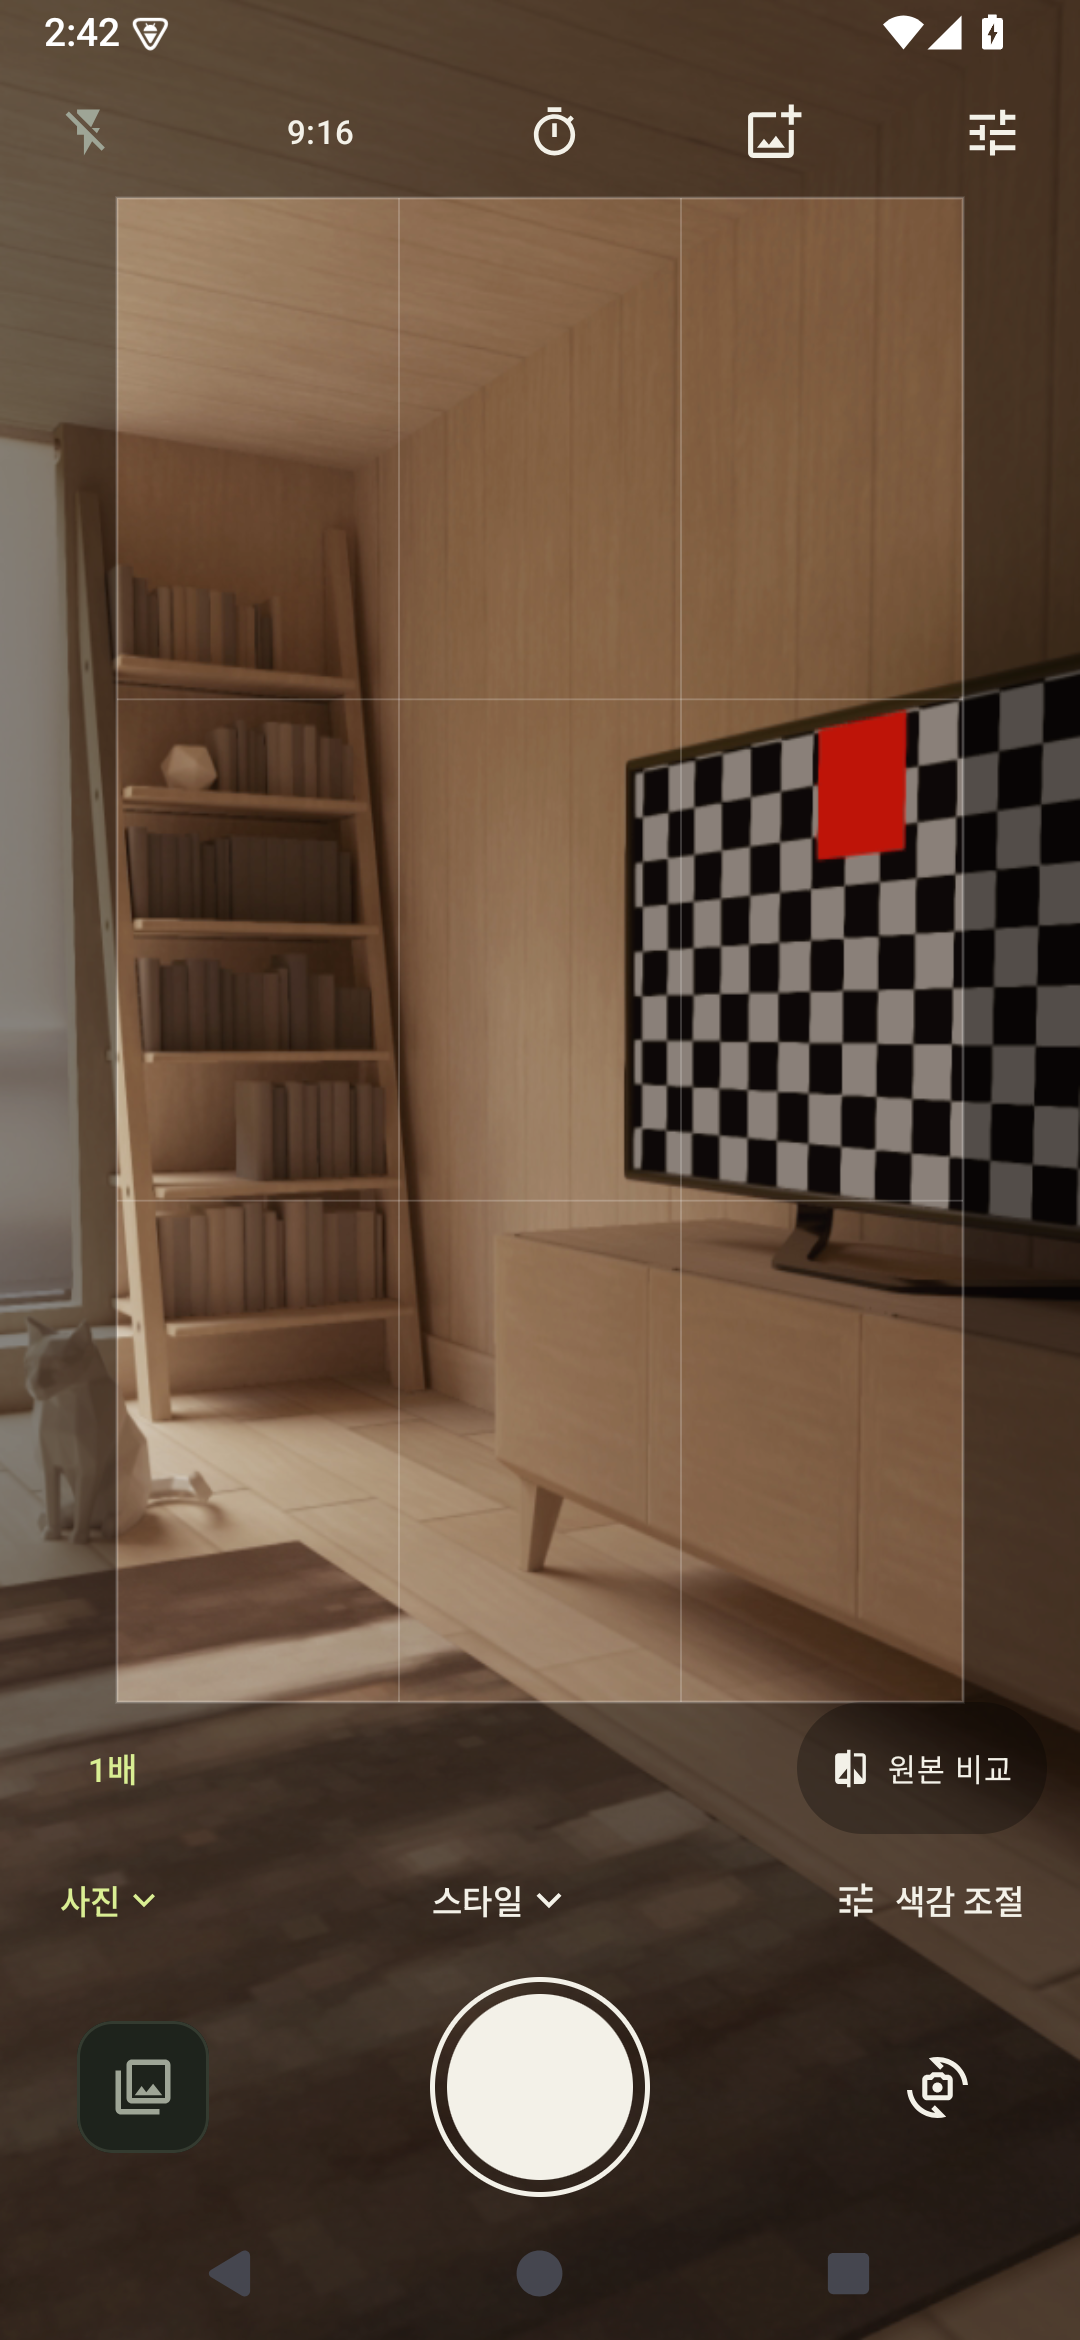
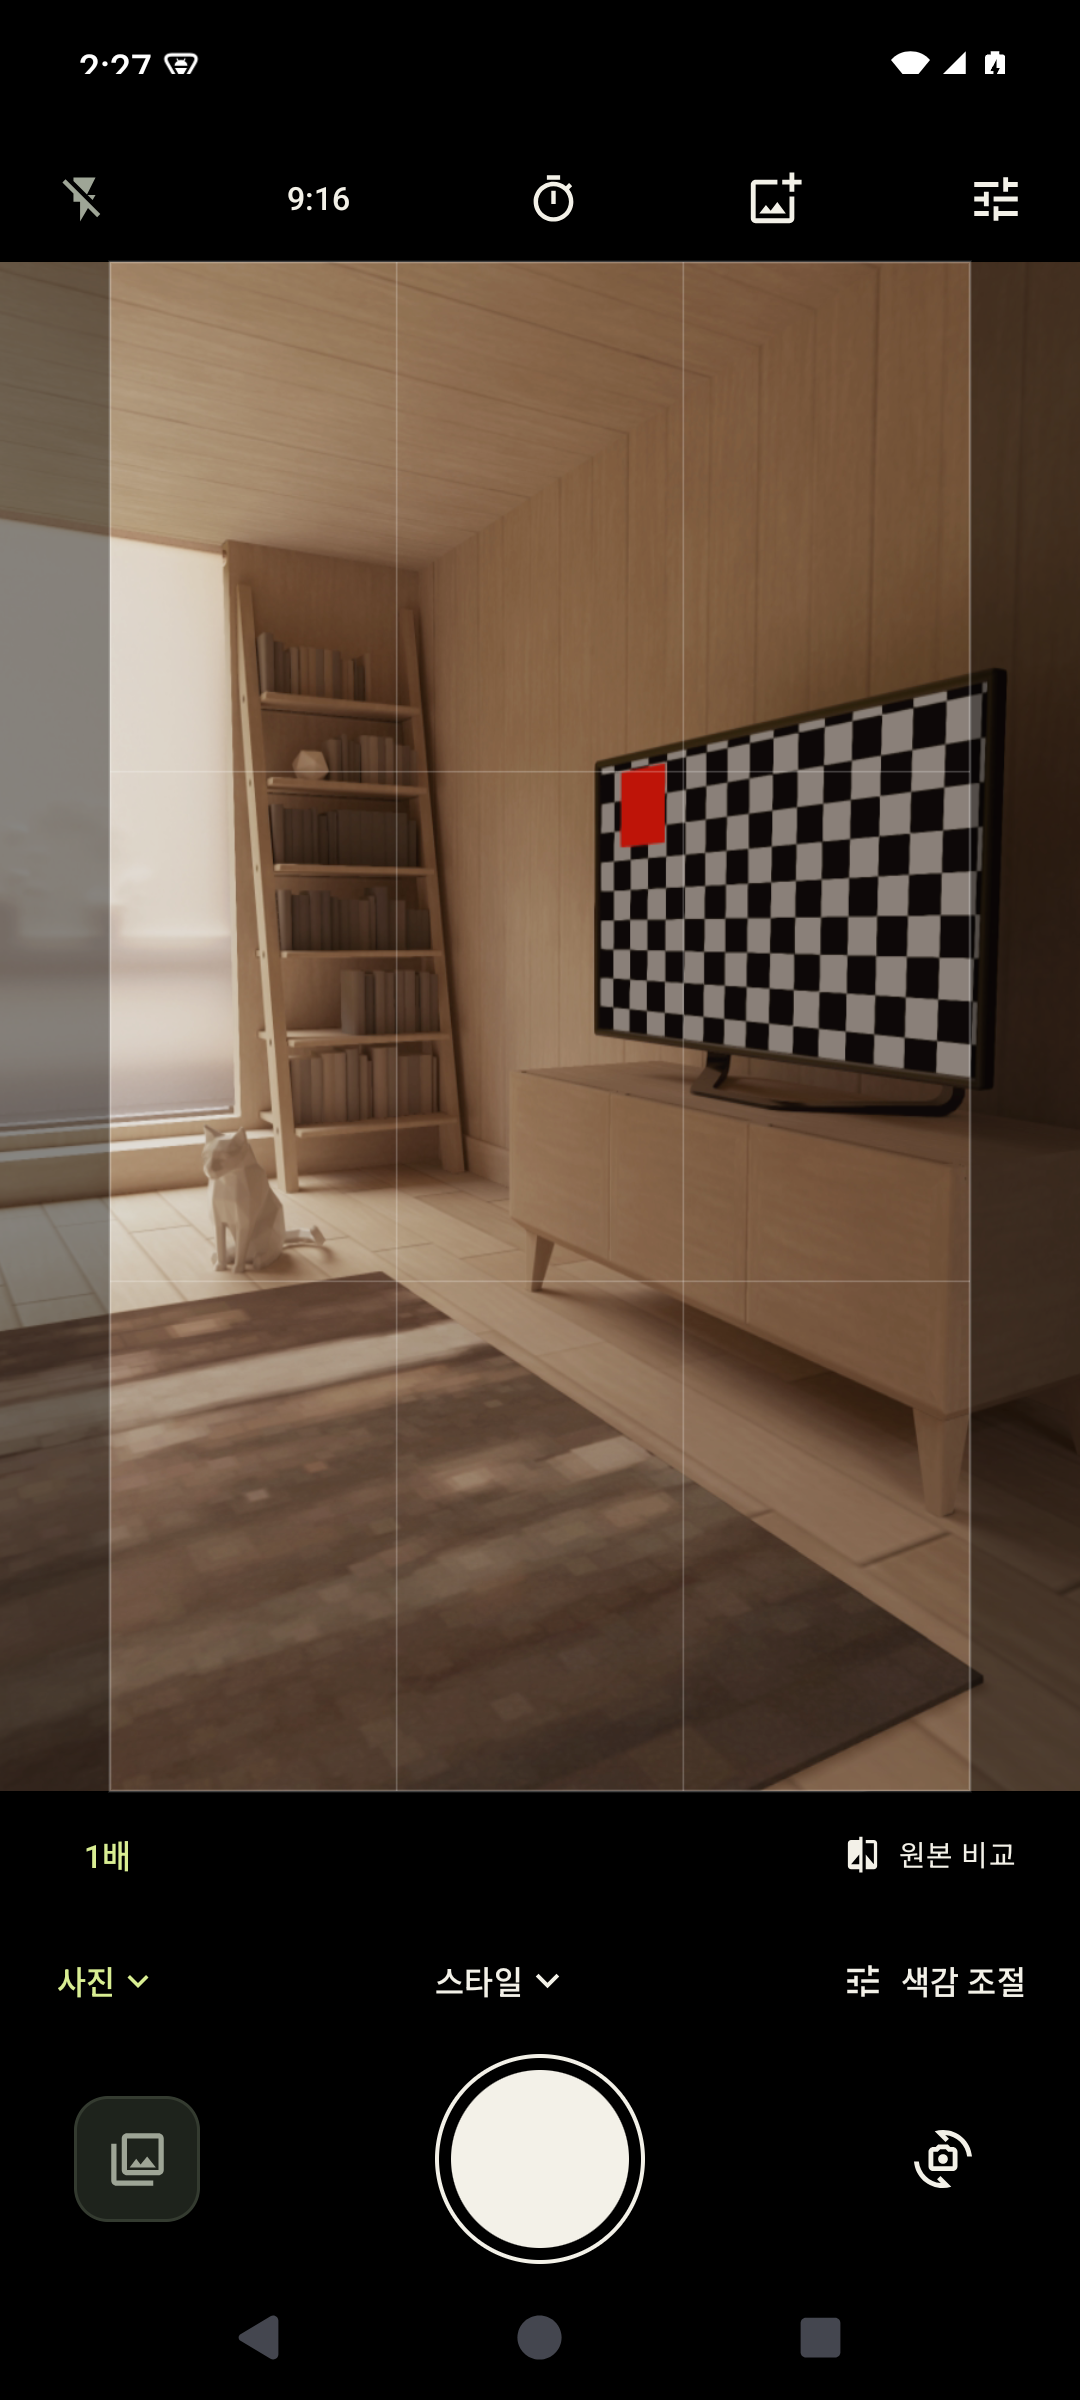
build: bump to 0.2.8 and document the 1x field of view fix
Version code 10. The screenshots come from the signed 0.2.8 build on the
API 35 emulator, and the release review records the before and after
measurements against the system camera app.

diff --git a/docs/PLAY_INTERNAL_TESTING.md b/docs/PLAY_INTERNAL_TESTING.md
@@ -1,8 +1,8 @@
 # Google Play 내부 테스트
 
-업로드용 키로 서명한 AAB를 [GitHub Releases](https://github.com/hyunjun1234/Iphone_camera/releases/tag/v0.2.7)에서 받을 수 있습니다. GitHub에 파일을 올리는 작업과 Play Console에 내부 테스트 버전을 게시하는 작업은 별개입니다. Console 등록은 아래 순서대로 직접 진행합니다.
+업로드용 키로 서명한 AAB를 [GitHub Releases](https://github.com/hyunjun1234/Iphone_camera/releases/tag/v0.2.8)에서 받을 수 있습니다. GitHub에 파일을 올리는 작업과 Play Console에 내부 테스트 버전을 게시하는 작업은 별개입니다. Console 등록은 아래 순서대로 직접 합니다.
 
-- [Play Console 업로드용 AAB 다운로드](https://github.com/hyunjun1234/Iphone_camera/releases/download/v0.2.7/moment-0.2.7-9.aab)
+- [Play Console 업로드용 AAB 다운로드](https://github.com/hyunjun1234/Iphone_camera/releases/download/v0.2.8/moment-0.2.8-10.aab)
 
 **App Bundle 업로드란에는 `.aab` 파일 하나만 선택합니다.** APK는 휴대폰에 직접 설치할 때 쓰는 파일입니다. 이번 GitHub 릴리스에는 Console 업로드용 AAB와 체크섬을 첨부했습니다.
 
@@ -12,19 +12,19 @@
 | --- | --- |
 | 앱 이름 | 모먼트 |
 | 패키지 이름 | `studio.moment.camera` |
-| 버전 | `0.2.7` |
-| 버전 코드 | `9` |
+| 버전 | `0.2.8` |
+| 버전 코드 | `10` |
 | 대상 SDK | Android 16, API 36 |
 | 배포 대상 | 내부 테스트 |
-| Console에 업로드할 파일 | `app/build/outputs/play/moment-0.2.7-9.aab` |
-| 직접 설치할 파일 | `app/build/outputs/play/moment-0.2.7-9.apk` |
+| Console에 업로드할 파일 | `app/build/outputs/play/moment-0.2.8-10.aab` |
+| 직접 설치할 파일 | `app/build/outputs/play/moment-0.2.8-10.apk` |
 
 이 경로들은 로컬 빌드 결과이며 Git에 포함하지 않습니다. 같은 폴더의 `release-info.json`에 파일별 SHA-256과 업로드 인증서 지문이 있습니다. `uploadedToGooglePlay: false`는 파일 생성만 완료했다는 뜻입니다. 이 값은 실제 Console 배포 상태를 조회한 결과가 아닙니다.
 
 ## 업로드 오류가 표시될 때
 
 - **유효한 App Bundle을 업로드하세요:** 선택한 파일의 확장자가 `.aab`인지 확인합니다. APK 파일을 App Bundle 입력란에 함께 올리지 않습니다.
-- **3 버전 코드는 이미 사용되었습니다:** Console에 이미 사용된 버전 코드입니다. 새로 업로드하려면 버전 코드를 높여 빌드해야 합니다. 이번 `moment-0.2.7-9.aab`에는 버전 코드 `9`가 들어 있습니다. 파일 이름이나 Console의 출시명만 바꿔서는 해결되지 않습니다.
+- **3 버전 코드는 이미 사용되었습니다:** Console에 이미 사용된 버전 코드입니다. 새로 업로드하려면 버전 코드를 높여 빌드해야 합니다. 이번 `moment-0.2.8-10.aab`에는 버전 코드 `10`이 들어 있습니다. 파일 이름이나 Console의 출시명만 바꿔서는 해결되지 않습니다.
 - 버전 코드 3의 AAB가 이미 정상 등록돼 있고 같은 파일을 다시 쓰려는 경우에는 새 업로드 대신 **라이브러리에서 추가**로 선택할 수 있습니다.
 
 [버전 코드 안내](https://developer.android.com/studio/publish/versioning), [버전 준비 및 출시 안내](https://support.google.com/googleplay/android-developer/answer/9859348?hl=ko)
@@ -60,8 +60,8 @@ Google Play는 업로드 키와 배포 시 사용하는 앱 서명 키를 구분
 내부 테스트는 앱 설정을 모두 마치기 전에도 사용할 수 있고, 최대 100명의 테스트 계정에 배포할 수 있습니다. [Google 내부 테스트 안내](https://support.google.com/googleplay/android-developer/answer/9845334?hl=ko)
 
 1. Google Play 개발자 계정으로 Console에 로그인합니다. 새 앱이면 이름을 ‘모먼트’, 기본 언어를 한국어로 설정하고 앱 유형과 가격 등 등록 정보를 정합니다. 같은 패키지의 앱이 이미 있으면 그 앱을 엽니다.
-2. **테스트 및 출시 → 테스트 → 내부 테스트**에서 새 버전을 만들고 Play 앱 서명을 설정합니다. `moment-0.2.7-9.aab`를 업로드합니다. 첫 업로드 후 패키지 이름은 고정되므로 `studio.moment.camera`가 맞는지 확인합니다.
-3. 버전 이름은 `0.2.7 (9)`으로 입력하고, [한국어 출시 노트](../play/ko-KR/release-notes.txt)를 붙여넣습니다. Console의 오류가 있다면 해결한 뒤 내부 테스트 버전을 게시합니다.
+2. **테스트 및 출시**, **테스트**, **내부 테스트** 순서로 들어가 새 버전을 만들고 Play 앱 서명을 설정합니다. `moment-0.2.8-10.aab`를 업로드합니다. 첫 업로드 후 패키지 이름은 고정되므로 `studio.moment.camera`가 맞는지 확인합니다.
+3. 버전 이름은 `0.2.8 (10)`으로 입력하고, [한국어 출시 노트](../play/ko-KR/release-notes.txt)를 붙여넣습니다. Console의 오류가 있다면 해결한 뒤 내부 테스트 버전을 게시합니다.
 4. **테스터** 탭에서 휴대폰의 Play 스토어에 로그인한 Google 계정을 테스트 목록에 추가하고 목록을 선택해 저장합니다. 기존 테스트 목록을 교체하지 않도록 주의합니다.
 5. Console에 표시되는 테스트 참여 링크를 복사합니다. 같은 Google 계정으로 링크를 열어 테스트에 참여한 뒤 Play 스토어에서 설치합니다. 처음 게시하면 링크나 앱 표시가 반영될 때까지 시간이 걸릴 수 있습니다.
 
@@ -72,7 +72,8 @@ Google Play는 업로드 키와 배포 시 사용하는 앱 서명 키를 구분
 - 최적화된 릴리스 AAB와 APK 빌드 및 서명 검증
 - AAB와 APK의 업로드 인증서 일치, 디버그 서명 사용 여부 확인
 - Google `bundletool` 1.18.3으로 AAB 구조 검증
-- AAB의 패키지 이름, 버전 코드 9, 버전 0.2.7, 대상 API 36 확인
+- AAB의 패키지 이름, 버전 코드 10, 버전 0.2.8, 대상 API 36 확인
+- AAB의 업로드 인증서 지문이 0.2.7과 같은지 확인
 - APK의 ZIP 정렬과 포함된 ARM64 및 x86_64 네이티브 라이브러리의 ELF 16KB 정렬 확인
 - 서명 설정이 없으면 배포 준비 명령과 서명 필수 빌드가 중단되는지 확인
 - 생성된 키와 비밀번호, 빌드 결과가 Git 추적 대상에서 제외되는지 확인

diff --git a/docs/RELEASE_REVIEW.md b/docs/RELEASE_REVIEW.md
@@ -1,5 +1,39 @@
 # 출시 준비 검토
 
+## 버전 0.2.8 기본 카메라와 같은 1배 화각
+
+검토일: 2026-11-10
+
+0.2.4부터 1배 화면과 사진이 기본 카메라의 1배보다 좁은 범위를 담던 문제를 고쳤습니다.
+
+| 항목 | 0.2.7 | 0.2.8 |
+| --- | --- | --- |
+| CameraX ViewPort 비율 | 화면 전체(1080×2400) | 카메라 영상(세로로 3:4) |
+| 3:4 사진이 쓰는 카메라 영상 | 가로세로 60%, 위쪽으로 치우침 | 전체 |
+| 기본 카메라 1배 대비 배율 | 1.67배 | 1.00배 |
+| 3:4 사진 크기 | 576×768 | 960×1280 |
+| 9:16 사진 크기 | 458×814 | 720×1280 |
+| 1:1 사진 크기 | 576×576 | 960×960 |
+| 전면 3:4 사진 크기 | 864×1152 | 1440×1920 |
+
+2026-11-10에 API 35 ARM64 에뮬레이터(화면 1080×2400, 후면 가상 장면 카메라 1280×960, 전면 테스트 영상 카메라 1920×1440)에서 잰 값입니다. 기준은 같은 에뮬레이터의 기본 카메라 앱으로 찍은 1배 사진(후면 960×1280, 전면 1440×1920)입니다. 0.2.7의 배율은 화면 비율에 따라 달라지며 19.5:9 화면에서는 계산상 1.63배입니다.
+
+원인은 ViewPort 비율입니다. 촬영 영역 밖까지 장면을 이어 보이려고 미리보기와 정지 사진의 ViewPort를 화면 전체 비율로 잡았고, CameraX는 그 비율에 맞춰 4:3 센서의 가운데만 씁니다. 세로로 긴 화면일수록 좌우가 많이 잘렸고 3:4 프레임은 그중 일부만 저장했습니다.
+
+0.2.8은 ViewPort를 카메라 영상 비율로 잡고, 촬영 비율마다 카메라 영상의 가운데 최대 영역을 씁니다. 3:4는 영상 전체, 9:16은 높이 전체, 1:1은 너비 전체입니다. 화면에는 카메라 영상 전체를 프레임에 맞는 크기로 놓으므로 프레임 안에 보이는 범위와 저장되는 범위가 같습니다. 수정 후 사진 3장과 화면 프레임 3개를 기준 사진과 구역별로 겹쳐 본 결과, 배율 차이는 0.4% 이내, 위치 차이는 3px 이내였습니다.
+
+촬영 영역 밖 화면은 카메라 영상이 남는 곳에만 밝기 60%로 표시합니다. 9:16은 좌우, 1:1은 위아래입니다. 3:4는 남는 영상이 없어 검게 보입니다. 1배에서 3:4 프레임 밖의 장면까지 보이려면 더 넓은 렌즈의 영상이 따로 필요하며, 이 앱은 카메라 하나의 영상만 씁니다.
+
+배율 버튼은 표시한 값이 그대로 카메라에 전달됩니다. 에뮬레이터 전면 카메라에서 1배, 2배, 3배, 5배, 10배를 눌렀을 때 `dumpsys media.camera`의 `android.control.zoomRatio`는 1.0, 2.0, 3.0, 5.0, 10.0이었습니다. 영상 비교로는 1배가 기본 카메라의 1.00배, 2배가 2.00배였습니다. 3배 이상은 테스트 영상에 무늬가 적어 영상 비교로 재지 못했습니다.
+
+표준 화질의 저장 화소 상한을 1,200만에서 4032×3024(1,219만)로 바꿨습니다. 3:4 사진이 카메라 영상 전체가 되면서 4032×3024 사진이 상한에 걸려 4000×3000으로 다시 축소됐기 때문입니다.
+
+단위 테스트 21개, Android 통합 테스트 22개, 360×720dp와 글자 크기 130%에서 촬영과 사용성 테스트 11개를 통과했습니다. 1배 사진이 카메라 영상 전체를 쓰는지, 화면의 카메라 영상이 프레임에 맞는 크기인지, 터치 초점 좌표가 카메라 영상의 같은 위치를 가리키는지, 표준 화질에서 4032×3024 사진이 그대로 저장되는지를 새로 검사합니다. 린트 오류는 0개이며 기존 경고 22개가 남아 있습니다. 전체 묶음 실행에서 `photoQualityCanBeChangedWithoutLosingTheCameraAndSurvivesRestart`가 0.2.7 코드에서도 한 번 시간 초과로 실패했고 단독 재실행에서는 통과했습니다.
+
+서명된 배포용 APK로 세 비율의 화면과 촬영, 배율 조절, 색감 조절 화면을 확인했습니다. 문서 이미지는 이 APK의 실제 실행 화면입니다. AAB의 구조와 버전 코드 10, 패키지 이름, 대상 SDK 36 및 0.2.7과 같은 업로드 인증서를 검증했습니다.
+
+갤럭시 실기기에서 1배 화각이 삼성 기본 카메라와 일치하는지, 제조사 확장 모드(자동 보정, HDR, 야간, 인물)에서의 화각은 미확인입니다.
+
 ## 버전 0.2.7 빠른 줌과 사진 화질
 
 검토일: 2026-10-28
